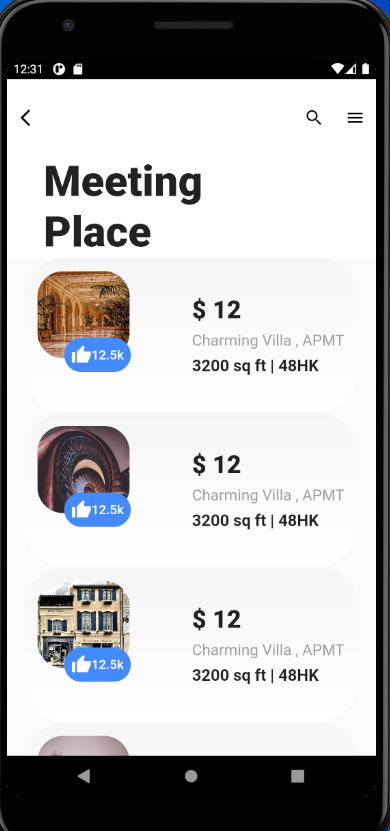
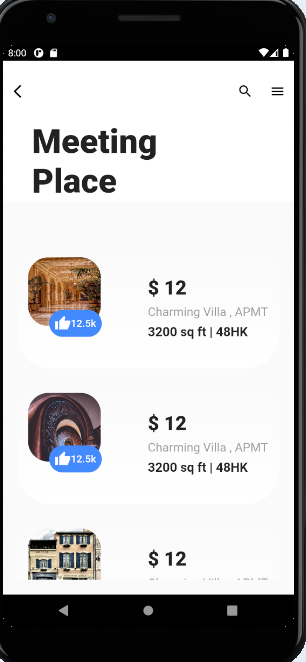
responsive design

diff --git a/lib/home_screen/components/home_widgets/item_list.dart b/lib/home_screen/components/home_widgets/item_list.dart
@@ -22,7 +22,7 @@ class ItemList extends StatelessWidget {
                   gradient: LinearGradient(
                       begin: Alignment.topCenter,
                       end: Alignment.bottomCenter,
-                      colors: [Colors.grey[50], Colors.white])),
+                      colors: [ Colors.grey[50], Colors.white])),
             padding:
             EdgeInsets.all(MediaQuery.of(context).size.width / 27),
 

diff --git a/lib/home_screen/home_screen.dart b/lib/home_screen/home_screen.dart
@@ -54,7 +54,7 @@ class HomeScreen extends StatelessWidget {
             children: [
 
               Padding(
-                padding: EdgeInsets.only(top:MediaQuery.of(context).size.height/9),
+                padding: EdgeInsets.only(top:MediaQuery.of(context).size.height/5),
                 child: HomeBody(),
               ),
               Container(
